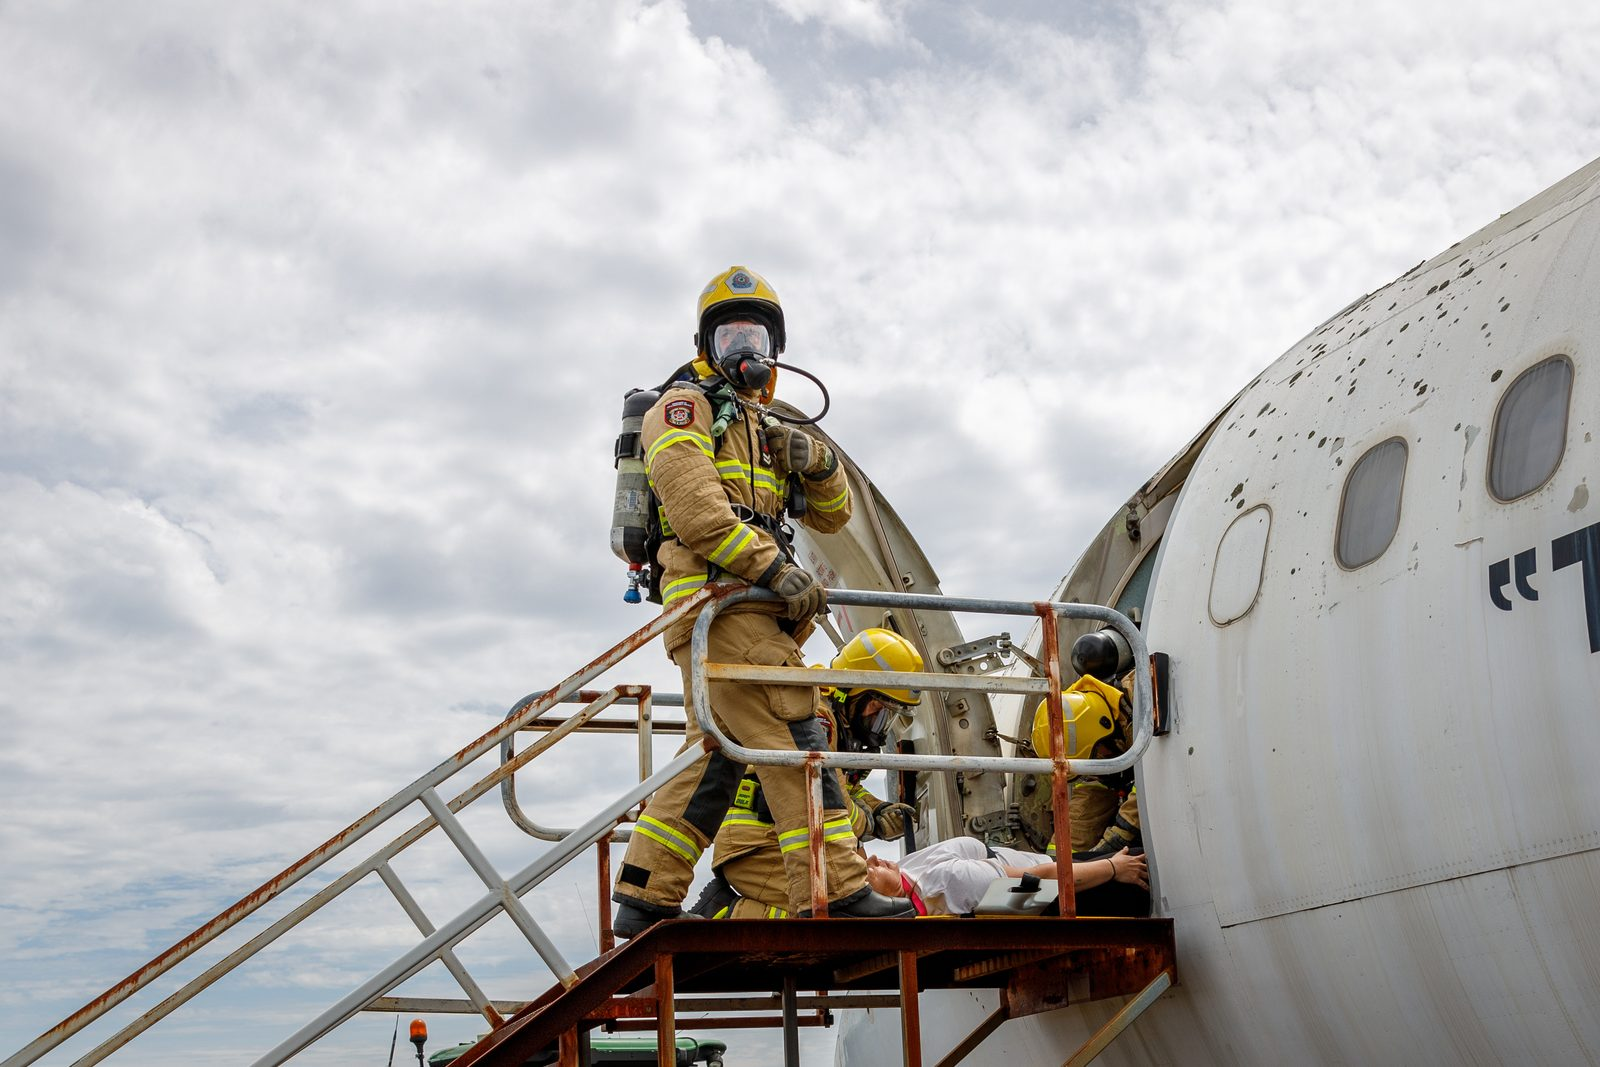
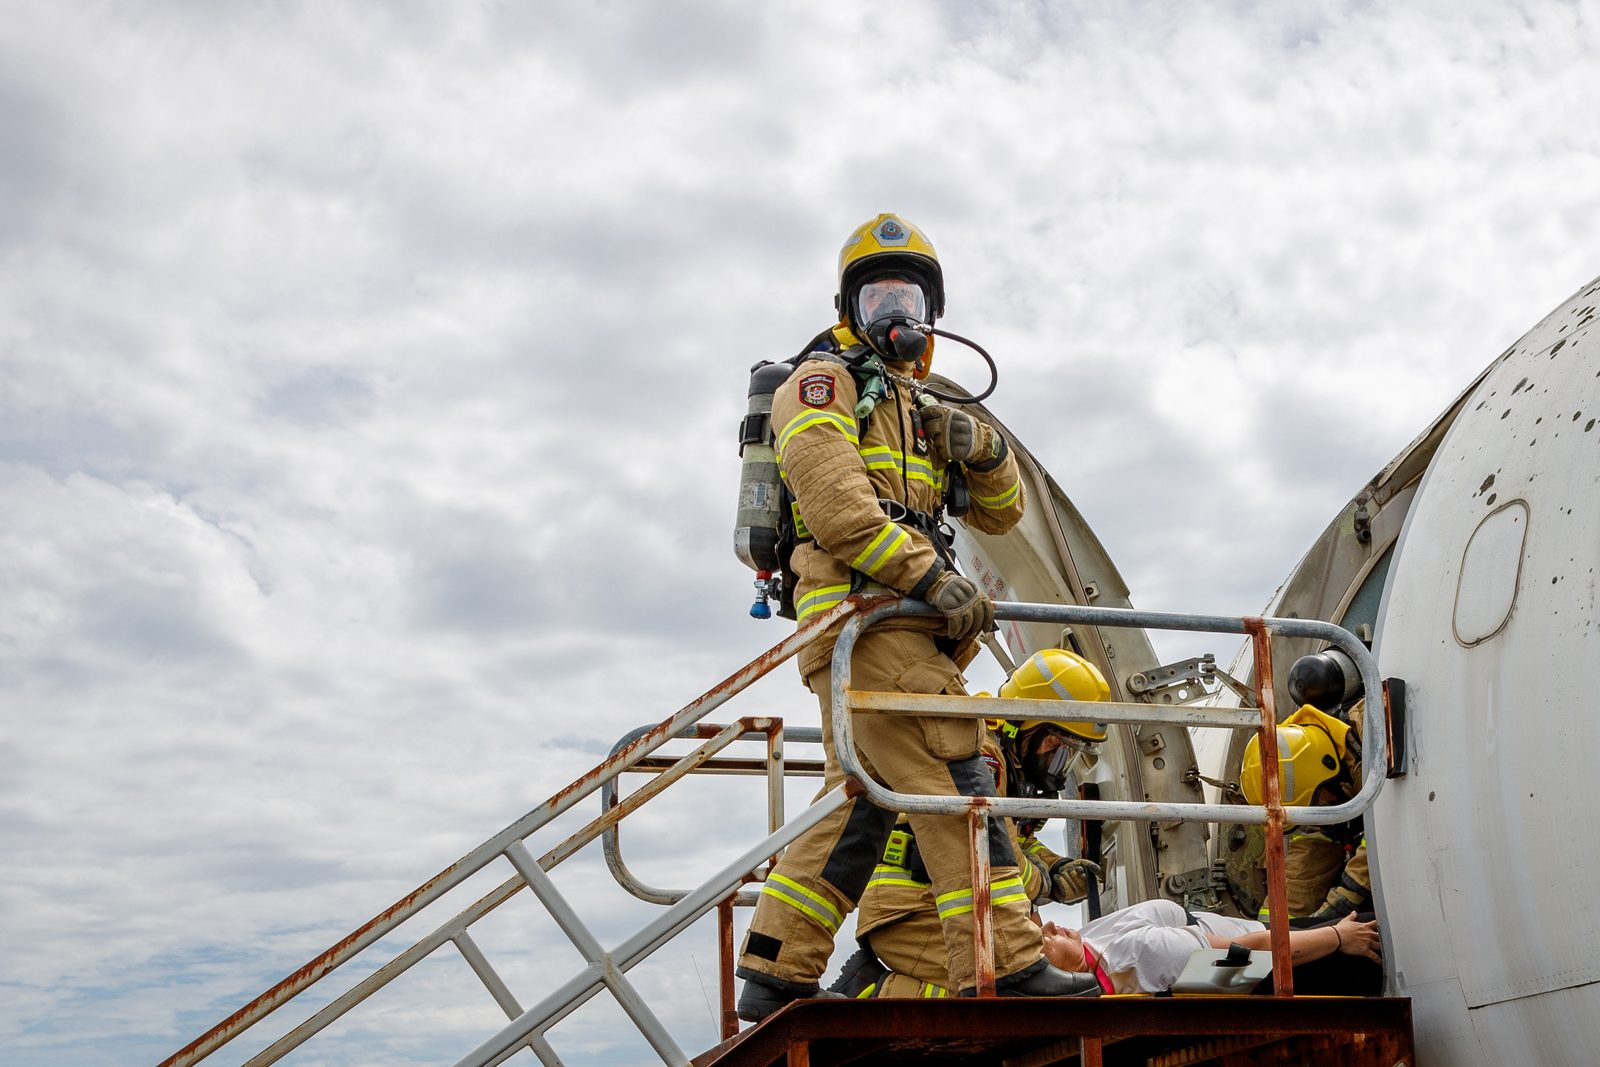
Trim the Coast wedge's right tail and shift the firefighter right
- Coast quadrilateral's top-right corner pulled back from 98% to 80%, so the
  wedge no longer tapers into a thin sliver against the banner's right edge.
- hero.jpg re-cropped from the recovered original: a 3000x2000 window taken
  from the left edge, which moves the firefighter from ~45% to ~54% across the
  frame. Done in the crop rather than via object-position because the image
  and the art box are near enough the same aspect that object-fit leaves only
  ~40px of horizontal play - object-position alone could not shift him.

Re-verified flush top and bottom at 1024/1280/1451/1920, the mobile band clear
of the heading, and no horizontal overflow from 320 to 1920.

Claude-Session: https://claude.ai/code/session_01Pvx1KHBK4SKDspdgaa5xKi

diff --git a/index.html b/index.html
@@ -54,7 +54,7 @@ header{background:var(--teal);color:var(--white);padding:2.25rem clamp(1rem,4vw,
 /* Anchored to all four edges of the banner, so the composition spans its
    full height rather than sitting inset within the padding. */
 .header__art{position:absolute;top:0;right:0;bottom:0;width:47%;pointer-events:none}
-.art__shape{position:absolute;inset:0;background:var(--coast);clip-path:polygon(43.2% 0,98% 0,43.9% 100%,17.5% 100%)}
+.art__shape{position:absolute;inset:0;background:var(--coast);clip-path:polygon(43.2% 0,80% 0,43.9% 100%,17.5% 100%)}
 .art__frame{position:absolute;inset:0;width:100%;height:100%;object-fit:cover;object-position:10% 50%;clip-path:polygon(19% 14.4%,100% 0,100% 100%,43.9% 100%)}
 
 .brandline{font-weight:400;font-size:.9rem;letter-spacing:.02em;opacity:.9;margin-bottom:.85rem}

diff --git a/templates/index.html b/templates/index.html
@@ -54,7 +54,7 @@ header{background:var(--teal);color:var(--white);padding:2.25rem clamp(1rem,4vw,
 /* Anchored to all four edges of the banner, so the composition spans its
    full height rather than sitting inset within the padding. */
 .header__art{position:absolute;top:0;right:0;bottom:0;width:47%;pointer-events:none}
-.art__shape{position:absolute;inset:0;background:var(--coast);clip-path:polygon(43.2% 0,98% 0,43.9% 100%,17.5% 100%)}
+.art__shape{position:absolute;inset:0;background:var(--coast);clip-path:polygon(43.2% 0,80% 0,43.9% 100%,17.5% 100%)}
 .art__frame{position:absolute;inset:0;width:100%;height:100%;object-fit:cover;object-position:10% 50%;clip-path:polygon(19% 14.4%,100% 0,100% 100%,43.9% 100%)}
 
 .brandline{font-weight:400;font-size:.9rem;letter-spacing:.02em;opacity:.9;margin-bottom:.85rem}

diff --git a/README.md b/README.md
@@ -60,13 +60,14 @@ elsewhere on the page — which is why the footer is a plain rule and the old
 floating background shard is gone. If you need a variation, the guidelines
 direct advanced compositions through the Brand & Marketing team.
 
-`assets/hero.jpg` is the supplied photograph, resized to 1600×1067 and saved
-at quality 82 — 198 KB, down from the 3.78 MB original. That covers a 2×
-display at the widest the frame ever renders (~770 CSS px on a 1920 viewport).
-The full-resolution original remains in git history at commit 36557fb if it is
-ever needed. If you replace it, re-check `.art__frame`'s `object-position`,
-which is tuned so the steep left edge of the frame does not cut through the
-firefighter.
+`assets/hero.jpg` is the supplied photograph, cropped to 3000×2000 from the
+left edge of the 3607×2405 original and resized to 1600×1067 at quality 82 —
+193 KB. The crop is what positions the firefighter inside the frame: the image
+and the art box are near enough the same aspect that `object-fit` has only
+about 40px of horizontal play, so `object-position` alone cannot move the
+subject meaningfully. To shift him further right, widen the crop's right
+margin; to shift him left, start the crop further right. The full-resolution
+original is in git history at commit 36557fb.
 
 **Typography is Lab Grotesque, self-hosted, with no web fallback in normal
 use.** Only Light (300) and Regular (400) are licensed here, so the page builds
